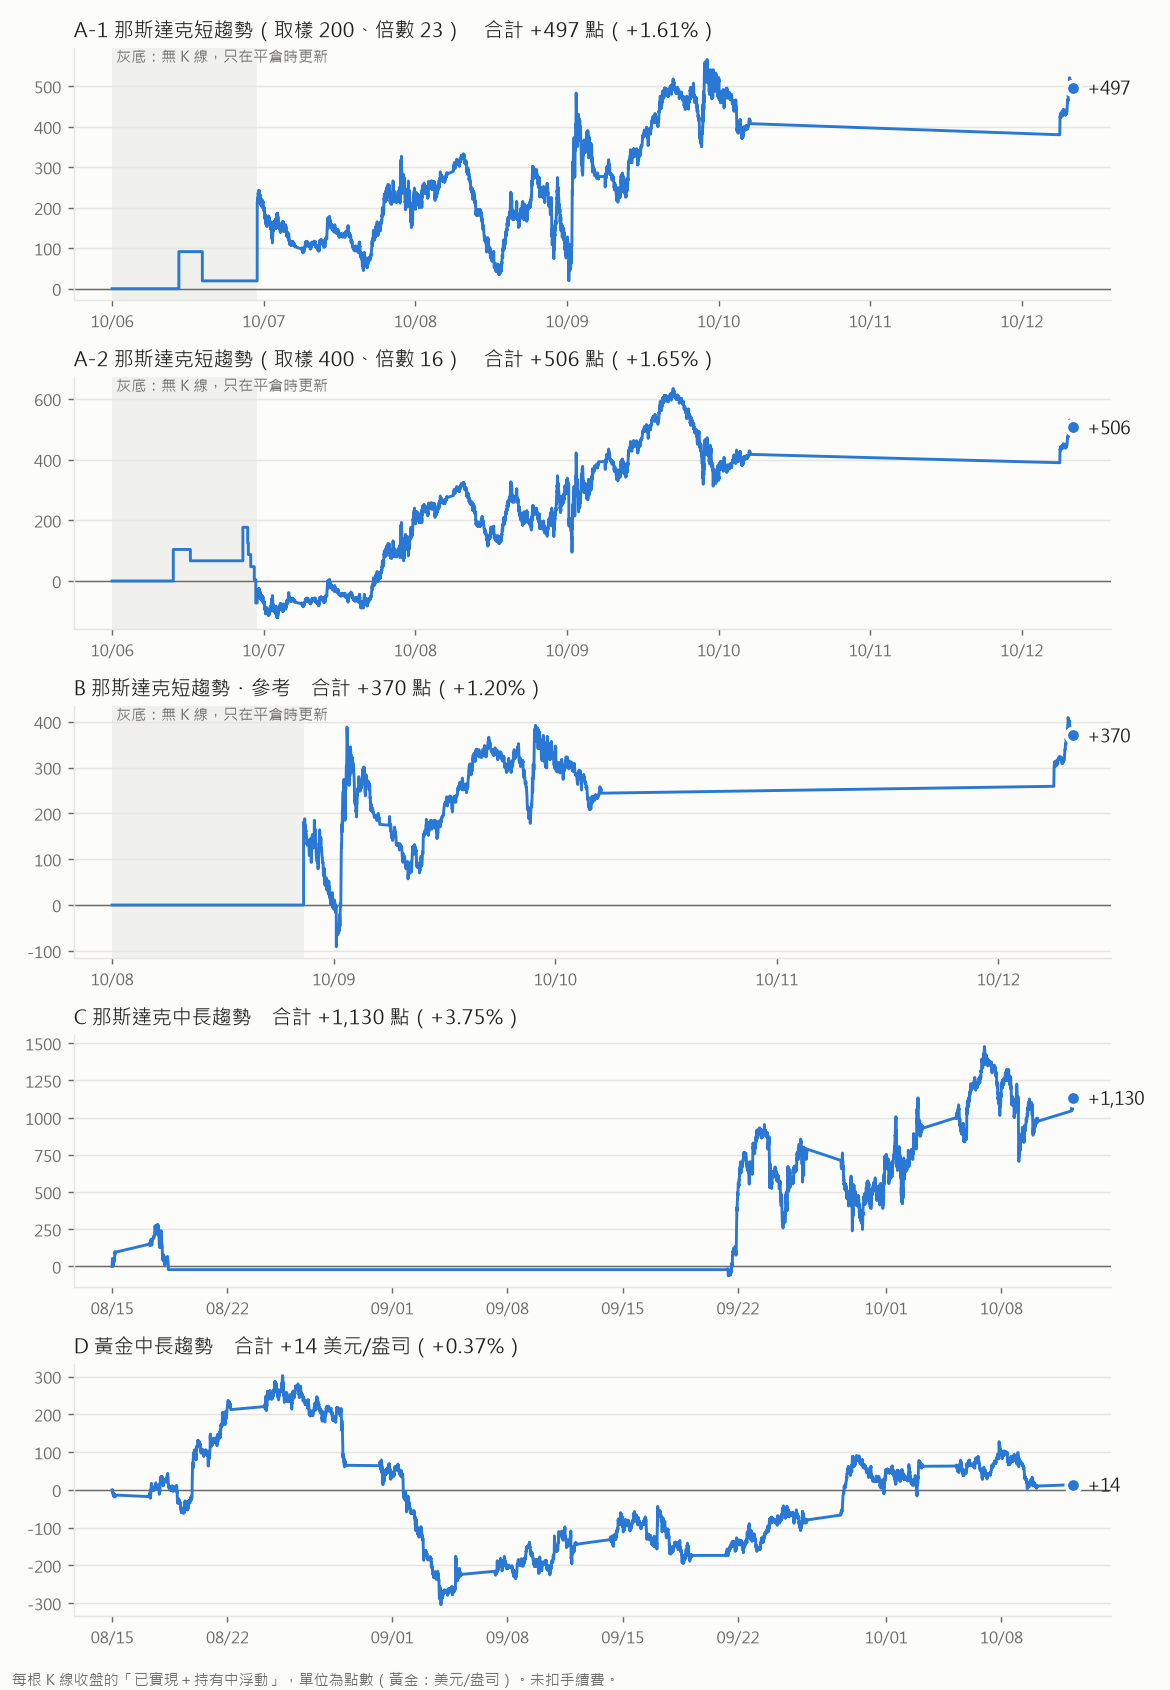
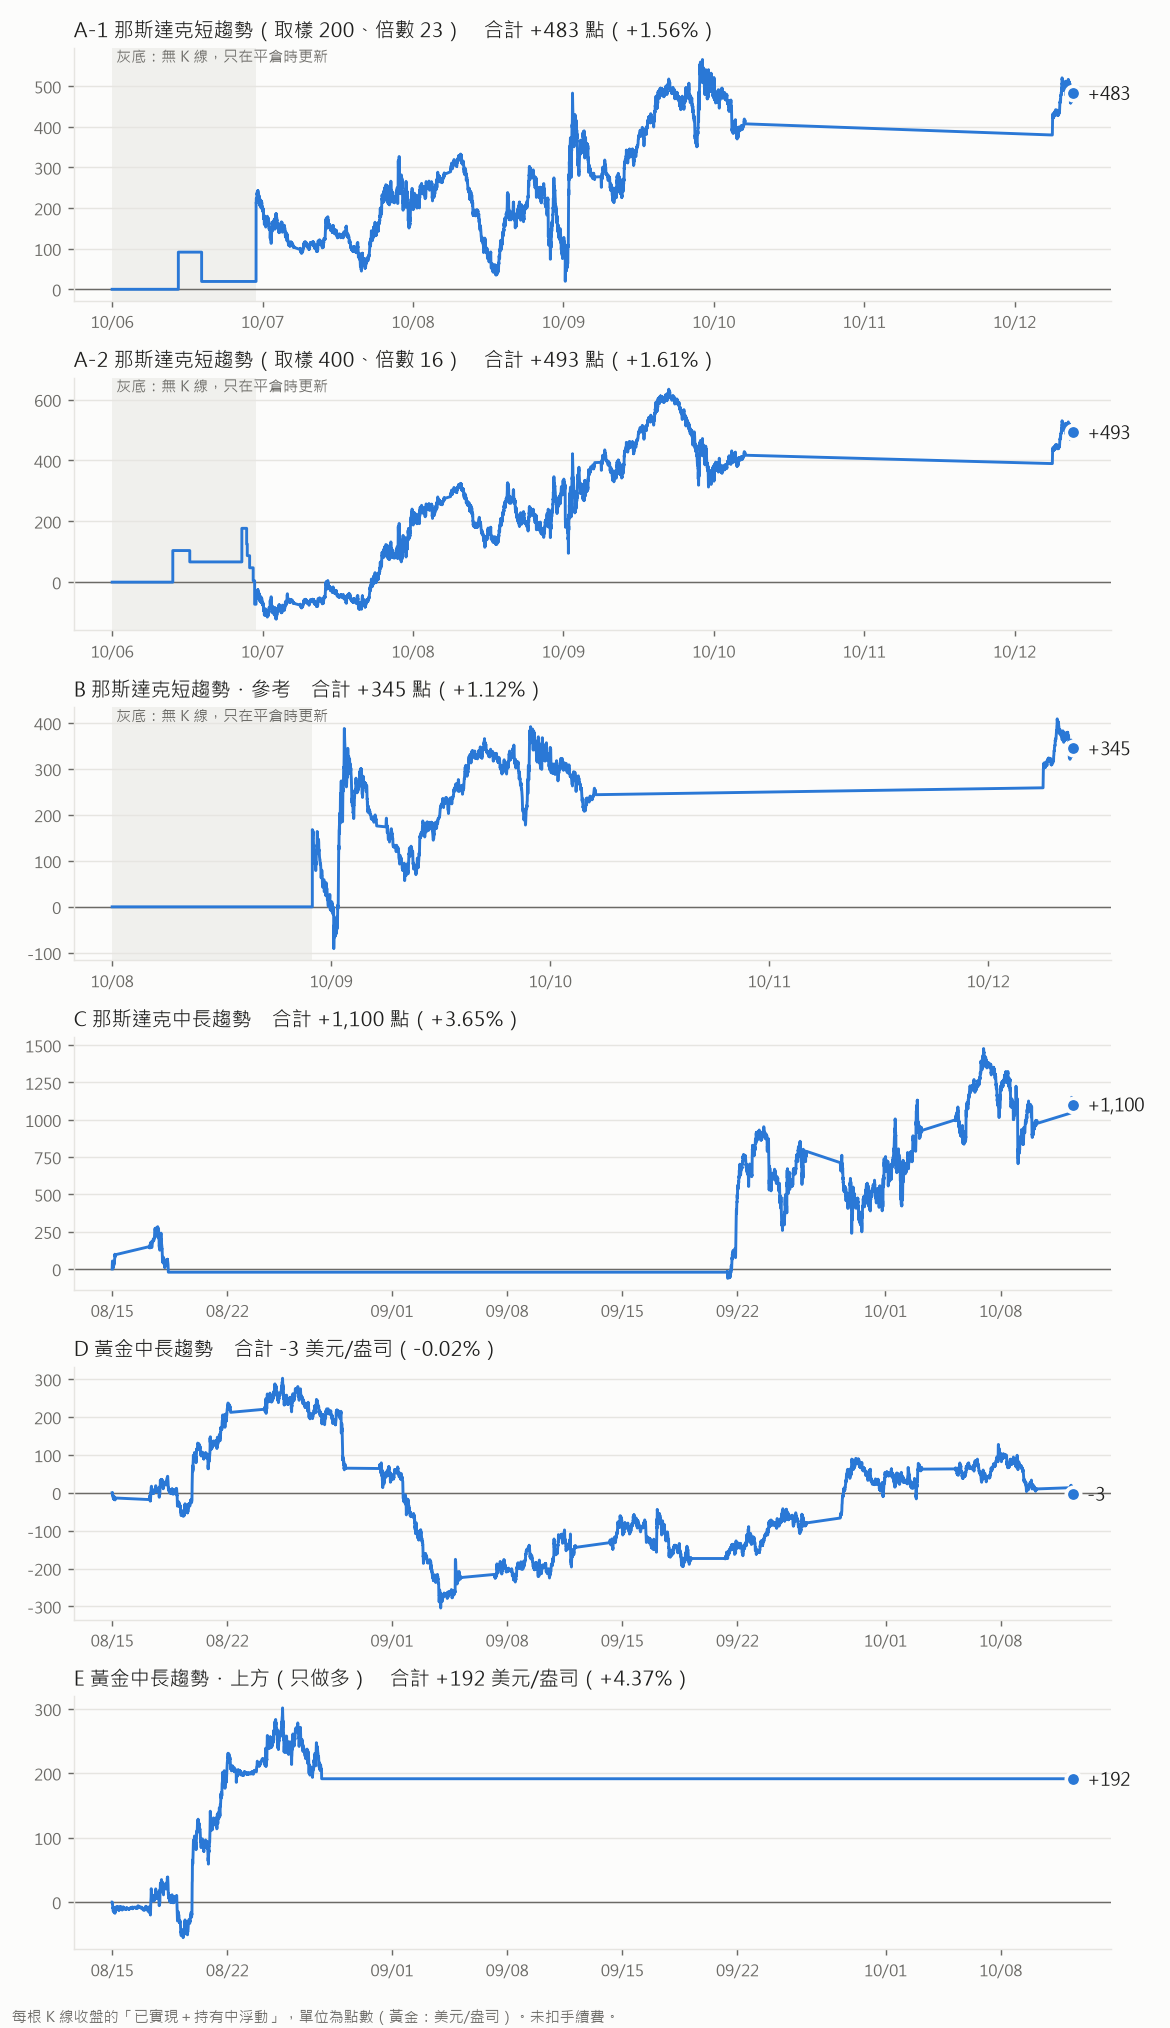
實際紀錄新增 E 格（黃金上方策略），曲線圖加 E
- 更新紀錄.py 新增 E：Binance 現貨 PAXGUSDT 11 分 24 小時、calc_don_g（照 index.html calcDonG）
- 起算日比照 C、D 為 2026-08-15：8/15 起算持有 4,387.41，8/27 平多 4,578.94，+192 美元/盎司
- 曲線圖六張（A-1、A-2、B、C、D、E）

diff --git a/實際紀錄/更新紀錄.py b/實際紀錄/更新紀錄.py
@@ -6,12 +6,14 @@
   B 那斯達克短趨勢・參考  Hyperliquid xyz:XYZ100 1 分，Range Filter 100/16，多空反轉
   C 那斯達克中長趨勢      Yahoo 那斯達克期貨「單一月份合約」6 分，Donchian 350 小時只做多＋8 ATR 停損
   D 黃金中長趨勢          Binance XAUUSDT 8 分，Donchian 350 小時多空反轉
+  E 黃金中長趨勢・上方    Binance 現貨 PAXGUSDT 11 分（24 小時），Donchian 350 小時只做多＋8 ATR 停損
+                          （= 黃金儀表板上方、LINE 推播那組，算法照 index.html 的 calcDonG）
 
 紀錄規則
 - 只往後追加，不改舊列。舊列就是當時的實際紀錄，日後資料源修正也不回頭改。
 - C 格用單一月份合約算訊號與損益，不用連續月（連續月換月時有價差，回測會失真）。
   換月日如果有部位，記一筆「換倉」：舊約平倉、新約同時開倉，價差照實算進損益。
-- 起算日：A、B 從 2026-10-06，C、D 從 2026-08-15。起算當下已有的部位，以起算時的價格記「起算持有」。
+- 起算日：A、B 從 2026-10-06，C、D、E 從 2026-08-15。起算當下已有的部位，以起算時的價格記「起算持有」。
 - 價格是訊號那根 K 棒的收盤價，未扣手續費與滑價。
 
 只用 Python 內建模組，三台電腦都能直接跑。
@@ -34,10 +36,12 @@ def ms(y, m, d, h=0):  # 台北時間 → 毫秒
 # 注意：A-2 的參數是用 10/6～10/10 的資料挑出來的，這四天是「樣本內」，成績會偏好看；
 # 真正公平的比較要看 2026-10-12（下週一開盤）之後的表現。
 # 紀錄檔裡原本的「A」欄位就是 A-1（舊紀錄只追加不改，欄位名稱不動）。
-START = {"A": ms(2026, 10, 6), "A2": ms(2026, 10, 6), "B": ms(2026, 10, 8), "C": ms(2026, 8, 15), "D": ms(2026, 8, 15)}
-ORDER = ["A", "A2", "B", "C", "D"]
-LABEL = {"A": "A-1", "A2": "A-2", "B": "B", "C": "C", "D": "D"}
-NAME = {"A": "那斯達克短趨勢（取樣 200、倍數 23）", "A2": "那斯達克短趨勢（取樣 400、倍數 16）", "B": "那斯達克短趨勢・參考", "C": "那斯達克中長趨勢", "D": "黃金中長趨勢"}
+# E（2026-10-12 加入）＝黃金上方策略，起算日比照 C、D。
+START = {"A": ms(2026, 10, 6), "A2": ms(2026, 10, 6), "B": ms(2026, 10, 8), "C": ms(2026, 8, 15), "D": ms(2026, 8, 15), "E": ms(2026, 8, 15)}
+ORDER = ["A", "A2", "B", "C", "D", "E"]
+LABEL = {"A": "A-1", "A2": "A-2", "B": "B", "C": "C", "D": "D", "E": "E"}
+NAME = {"A": "那斯達克短趨勢（取樣 200、倍數 23）", "A2": "那斯達克短趨勢（取樣 400、倍數 16）", "B": "那斯達克短趨勢・參考", "C": "那斯達克中長趨勢", "D": "黃金中長趨勢", "E": "黃金中長趨勢・上方（只做多）"}
+GOLD = ("D", "E")   # 單位是美元/盎司
 
 # C 格合約與換月日（CME 慣例：到期前約一週的週四換到下一季）。過了最後一列要往下加
 C_CONTRACTS = [
@@ -184,6 +188,24 @@ def bars_D(since):
         if len(ch) < 1500: break
     return agg_session(out, 8)
 
+def bars_E(since):
+    """Binance 現貨 PAXGUSDT 1 分 → 11 分（24 小時，時間桶從 1970 起算，同儀表板 aggAll）。只留已收盤的 K。"""
+    out = []; st = since
+    while st < NOW:
+        ch = jget(f"https://data-api.binance.vision/api/v3/klines?symbol=PAXGUSDT&interval=1m&limit=1000&startTime={st}")
+        if not ch: break
+        out += [(int(k[0]), float(k[1]), float(k[2]), float(k[3]), float(k[4]), float(k[5])) for k in ch]
+        st = int(ch[-1][0]) + 60000
+        if len(ch) < 1000: break
+    ms11 = 11 * 60000; B = []
+    for t, o, h, l, c, v in out:
+        s = t // ms11 * ms11
+        if B and B[-1][0] == s:
+            _, o0, h0, l0, _, v0 = B[-1]; B[-1] = (s, o0, max(h0, h), min(l0, l), c, v0 + v)
+        else: B.append((s, o, h, l, c, v))
+    while B and B[-1][0] + ms11 > NOW: B.pop()
+    return B
+
 # ============ 指標（照 index.html 逐行移植） ============
 def pine_ma(src, n, alpha):
     out = [None] * len(src); prev = None; s = 0.0; cnt = 0
@@ -264,6 +286,34 @@ def calc_don(B, lookH, tf, mode, stop_atr, atr_len=14):
         if flip: side = d; avg = c
         pos[i] = side
     return pos, look
+
+def calc_don_g(B, lookH=350, tf=11, stop_atr=8, atr_len=14):
+    """E 格：照 index.html 的 calcDonG（＝黃金儀表板 compute、LINE 推播 donchian.js）。
+    與 calc_don 不同處：停損後封鎖同方向、要先跌破出場線才接受下一次突破；ATR 用 Wilder（第 n 根簡單平均當種子）。"""
+    n = len(B); look = max(20, round(lookH * 60 / tf)); exn = max(10, round(look / 3))
+    H = [b[2] for b in B]; L = [b[3] for b in B]
+    hh, ll, he, le = roll(H, look, True), roll(L, look, False), roll(H, exn, True), roll(L, exn, False)
+    tr = [None] + [max(B[i][2] - B[i][3], abs(B[i][2] - B[i-1][4]), abs(B[i][3] - B[i-1][4])) for i in range(1, n)]
+    atr = [None] * n
+    if n > atr_len:
+        atr[atr_len] = sum(tr[1:atr_len + 1]) / atr_len
+        for i in range(atr_len + 1, n): atr[i] = (atr[i-1] * (atr_len - 1) + tr[i]) / atr_len
+    pos = [0] * n; d = side = blocked = 0; avg = None
+    for i in range(n):
+        c = B[i][4]
+        if i >= look:
+            if c > hh[i]: d = 1
+            elif c < ll[i]: d = -1
+            elif d == 1 and c < le[i]: d = 0
+            elif d == -1 and c > he[i]: d = 0
+        a = atr[i]
+        if a is not None and a > 0:
+            if blocked and d != blocked: blocked = 0
+            if side and (avg - c) * side >= stop_atr * a: blocked = side; side = 0; avg = None
+            if side and d != side: side = 0; avg = None
+            if not side and d > 0 and d != blocked: side = 1; avg = c
+        pos[i] = side
+    return pos, look + atr_len
 
 # ============ 紀錄 ============
 def load_log():
@@ -443,7 +493,11 @@ if __name__ == "__main__":
     BD = bars_D(min(last_t("D", START["D"]), NOW) - 70 * 86400000); posD, wD = calc_don(BD, 350, 8, "both", 8)
     added += update("D", BD, posD, wD, "XAUUSDT"); LAST["D"] = (BD[-1][4], BD[-1][0], None)
 
-    BARS = {"A": BA, "A2": BA, "B": BB, "C": BC, "D": BD}
+    print("抓 E：Binance 現貨 PAXGUSDT 1 分 K")
+    BE = bars_E(min(last_t("E", START["E"]), NOW) - 70 * 86400000); posE, wE = calc_don_g(BE)
+    added += update("E", BE, posE, wE, "PAXGUSDT"); LAST["E"] = (BE[-1][4], BE[-1][0], None)
+
+    BARS = {"A": BA, "A2": BA, "B": BB, "C": BC, "D": BD, "E": BE}
     allrows = [r for r in LOG_ROWS if r not in added] + added
     allrows.sort(key=lambda r: (r["格子"], int(r["時間戳"])))
     save_log(allrows)
@@ -457,7 +511,7 @@ if __name__ == "__main__":
         if not any(r["格子"] == k for r in allrows):
             print(f"{LABEL[k]} {NAME[k]}：尚未起算（{tpe(START[k])[:10]} 開盤起算）"); continue
         p = perf(k, [r for r in allrows if r["格子"] == k], *LAST[k])
-        unit = "美元/盎司" if k == "D" else "點"
+        unit = "美元/盎司" if k in GOLD else "點"
         tot_pts = p["pts"] + (p["op"]["pts"] if p["op"] else 0); tot_pct = p["pct"] + (p["op"]["pct"] if p["op"] else 0)
         print(f"{LABEL[k]} {NAME[k]}（{tpe(START[k])[:10]} 起，資料到 {tpe(LAST[k][1])}）")
         print(f"   已平倉 {p['n']} 筆，賺 {p['win']}／賠 {p['n']-p['win']}，已實現 {p['pts']:+,.0f} {unit}（{p['pct']:+.2f}%）")
